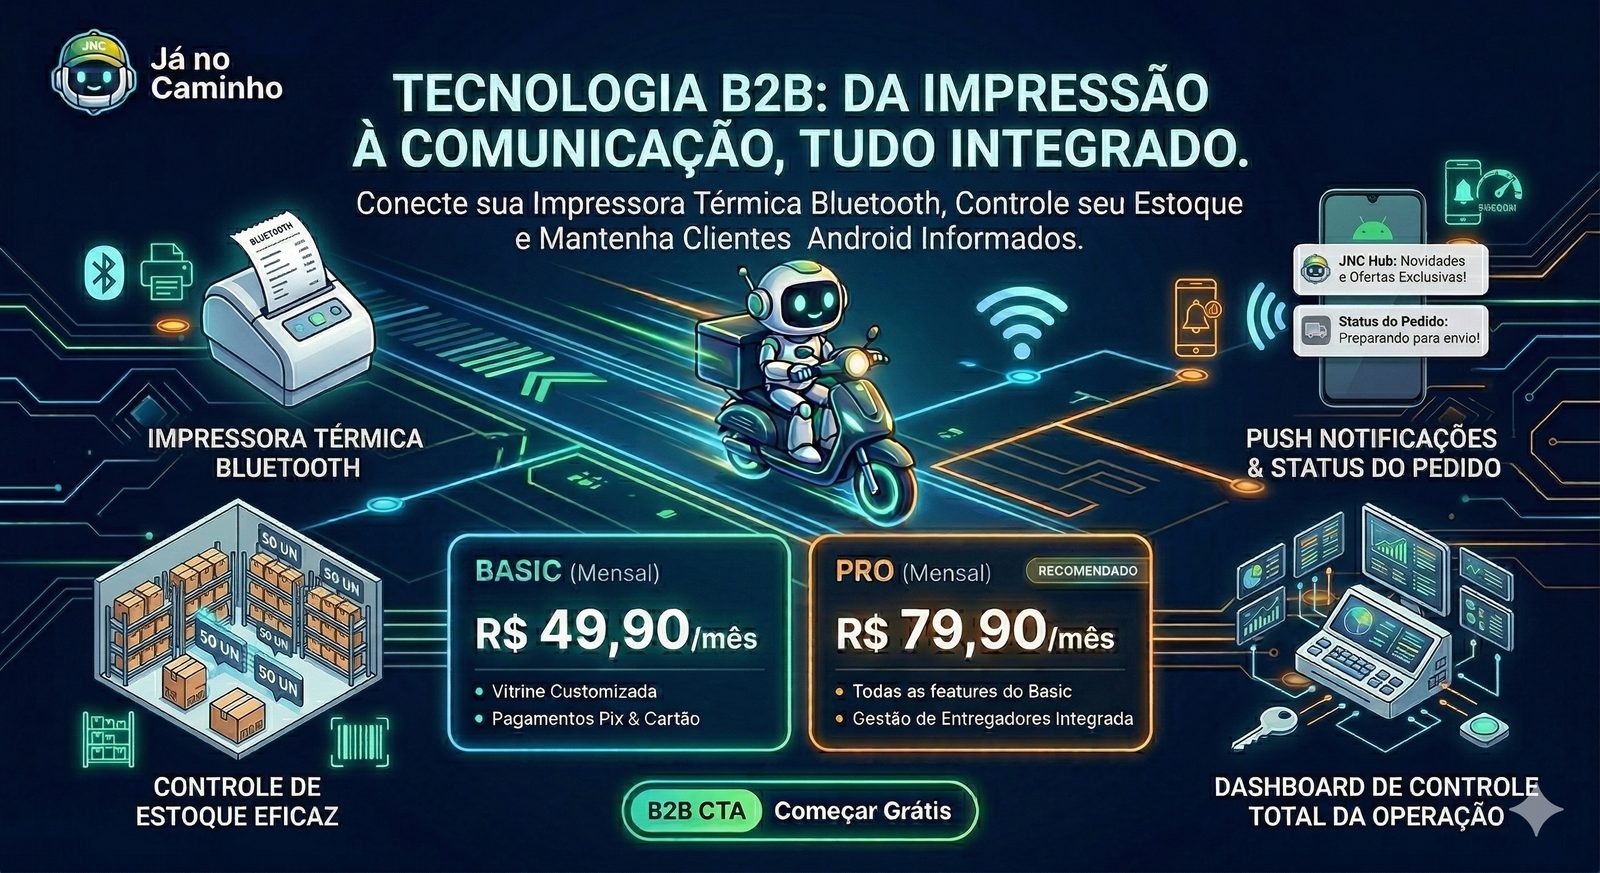
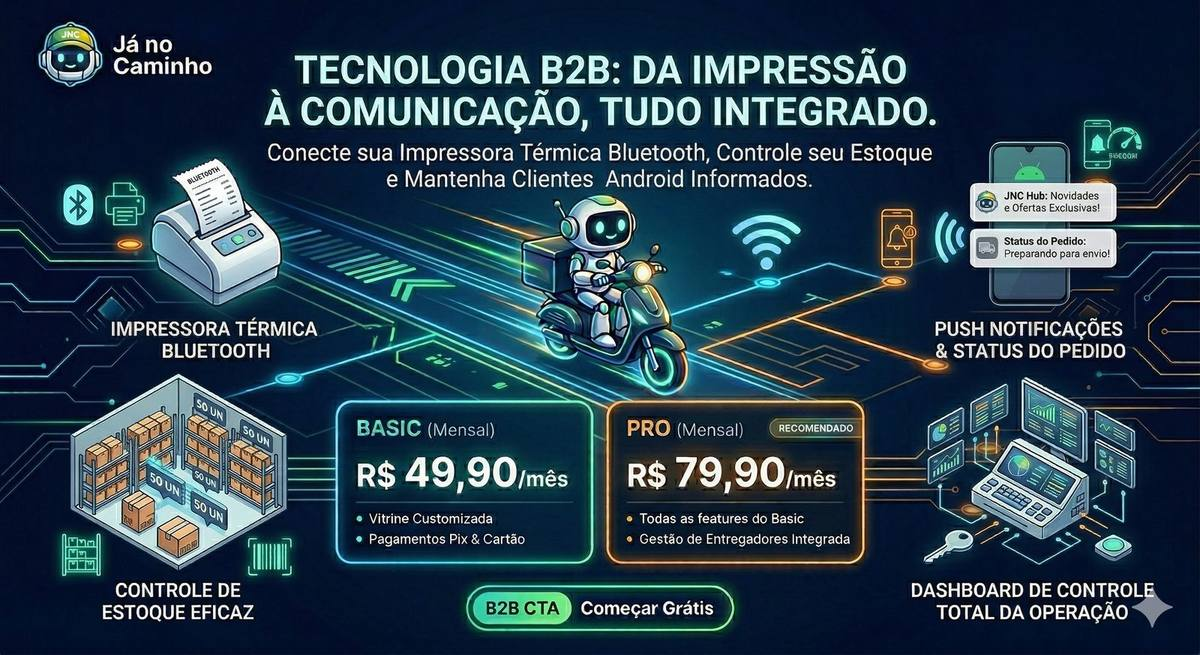
fix(ux): P1 finais — tap targets 44px e imagens de destinos -30%
- Tap targets: dots do carousel de marketing (20px -> 44px via hit-area),
  dots do banner do chale (8px -> ~44px), chips 'hospedagens/servicos'
  (36 -> 44px), botao Voltar do AppGlassHeader (40 -> 44px, 3 telas)
- promo-marketing-lite.jpg 292KB -> 155KB
- 8 banners/imagens de destinos recomprimidos com mozjpeg (-26 a -31%)
  e re-subidos ao S3 via uploadPublicObjectToS3 (modo hybrid: S3 manda,
  local e fallback; cache em memoria de 30min nos processos self-heal)

Validacao: testes verdes + build exit 0; 6/8 imagens ja servindo bytes
novos ao vivo, 2 restantes flipam com o TTL.

diff --git a/frontend/src/pages/DestinationDetailPage.tsx b/frontend/src/pages/DestinationDetailPage.tsx
@@ -372,7 +372,7 @@ export function DestinationDetailPage() {
                   <button
                     type="button"
                     onClick={() => jumpToDestinationSection('hospedagens', 'HOSPEDAGENS')}
-                    className="jnc-hub-touch inline-flex min-h-9 items-center gap-1.5 rounded-full border border-white/70 bg-white/62 px-3 text-[11px] font-black text-[#153A4C] shadow-[0_12px_26px_-22px_rgba(15,23,42,0.42)] ring-1 ring-white/45 backdrop-blur-xl transition hover:-translate-y-0.5 hover:bg-white focus-visible:outline-none focus-visible:ring-4 focus-visible:ring-[#336886]/16"
+                    className="jnc-hub-touch inline-flex min-h-11 items-center gap-1.5 rounded-full border border-white/70 bg-white/62 px-3 text-[11px] font-black text-[#153A4C] shadow-[0_12px_26px_-22px_rgba(15,23,42,0.42)] ring-1 ring-white/45 backdrop-blur-xl transition hover:-translate-y-0.5 hover:bg-white focus-visible:outline-none focus-visible:ring-4 focus-visible:ring-[#336886]/16"
                     aria-label={`Ver ${places.length} hospedagens`}
                   >
                     <Bed size={16} weight="duotone" className="shrink-0" />
@@ -381,7 +381,7 @@ export function DestinationDetailPage() {
                   <button
                     type="button"
                     onClick={() => jumpToDestinationSection('servicos-cidade', 'TODOS')}
-                    className="jnc-hub-touch inline-flex min-h-9 items-center gap-1.5 rounded-full border border-white/70 bg-white/62 px-3 text-[11px] font-black text-[#153A4C] shadow-[0_12px_26px_-22px_rgba(15,23,42,0.42)] ring-1 ring-white/45 backdrop-blur-xl transition hover:-translate-y-0.5 hover:bg-white focus-visible:outline-none focus-visible:ring-4 focus-visible:ring-[#336886]/16"
+                    className="jnc-hub-touch inline-flex min-h-11 items-center gap-1.5 rounded-full border border-white/70 bg-white/62 px-3 text-[11px] font-black text-[#153A4C] shadow-[0_12px_26px_-22px_rgba(15,23,42,0.42)] ring-1 ring-white/45 backdrop-blur-xl transition hover:-translate-y-0.5 hover:bg-white focus-visible:outline-none focus-visible:ring-4 focus-visible:ring-[#336886]/16"
                     aria-label={`Ver ${listings.length} serviços`}
                   >
                     <ForkKnife size={16} weight="duotone" className="shrink-0" />

diff --git a/frontend/src/components/common/AppGlassHeader.tsx b/frontend/src/components/common/AppGlassHeader.tsx
@@ -55,12 +55,12 @@ export function AppGlassHeader({
       <div className={`mx-auto ${maxWidthClassName} px-4`}>
         <div className="flex min-h-[3.95rem] items-center justify-between gap-3">
           {hideBack ? (
-            <span className="h-10 w-10 shrink-0" aria-hidden="true" />
+            <span className="h-11 w-11 shrink-0" aria-hidden="true" />
           ) : (
             <button
               type="button"
               onClick={handleBack}
-              className="inline-flex h-10 w-10 shrink-0 items-center justify-center rounded-full border border-white/80 bg-white/70 text-[#153A4C] shadow-[0_14px_28px_-22px_rgba(21,58,76,0.55)] ring-1 ring-[#d7e7ef]/70 transition-all active:scale-95"
+              className="inline-flex h-11 w-11 shrink-0 items-center justify-center rounded-full border border-white/80 bg-white/70 text-[#153A4C] shadow-[0_14px_28px_-22px_rgba(21,58,76,0.55)] ring-1 ring-[#d7e7ef]/70 transition-all active:scale-95"
               aria-label="Voltar"
             >
               <ArrowLeft size={18} weight="bold" />
@@ -79,7 +79,7 @@ export function AppGlassHeader({
           </div>
 
           <div className={`flex h-10 shrink-0 items-center justify-center ${right ? 'min-w-10' : 'w-10'}`}>
-            {right ?? <span className="h-10 w-10" aria-hidden="true" />}
+            {right ?? <span className="h-11 w-11" aria-hidden="true" />}
           </div>
         </div>
         {children ? <div className="pb-3">{children}</div> : null}

diff --git a/frontend/src/components/common/SegmentPromoCarousel.tsx b/frontend/src/components/common/SegmentPromoCarousel.tsx
@@ -215,7 +215,7 @@ export function SegmentPromoCarousel({
                 aria-label={`Ir para banner ${index + 1}`}
                 aria-current={index === activeIndex ? 'true' : undefined}
                 onClick={() => emblaApi?.scrollTo(index)}
-                className="jnc-hub-touch grid h-5 w-5 place-items-center rounded-full transition-all duration-300 focus-visible:outline focus-visible:outline-2 focus-visible:outline-offset-2 focus-visible:outline-white"
+                className="jnc-hub-touch relative grid h-6 w-6 place-items-center rounded-full transition-all duration-300 after:absolute after:inset-[-10px] after:content-[''] focus-visible:outline focus-visible:outline-2 focus-visible:outline-offset-2 focus-visible:outline-white"
               >
                 <span
                   className={`rounded-full transition-all duration-300 ${

diff --git a/frontend/src/pages/HospitalityPlacePage.tsx b/frontend/src/pages/HospitalityPlacePage.tsx
@@ -804,7 +804,7 @@ export function HospitalityPlacePage() {
                                 e.stopPropagation();
                                 setBannerIndex(index);
                               }}
-                              className={`h-2 rounded-full transition ${active ? 'w-6 bg-white shadow-sm' : 'w-2 bg-white/55 hover:bg-white/80'}`}
+                              className={`relative h-2 rounded-full transition after:absolute after:inset-[-1.1rem] after:content-[''] ${active ? 'w-6 bg-white shadow-sm' : 'w-2 bg-white/55 hover:bg-white/80'}`}
                             />
                           );
                         })}
